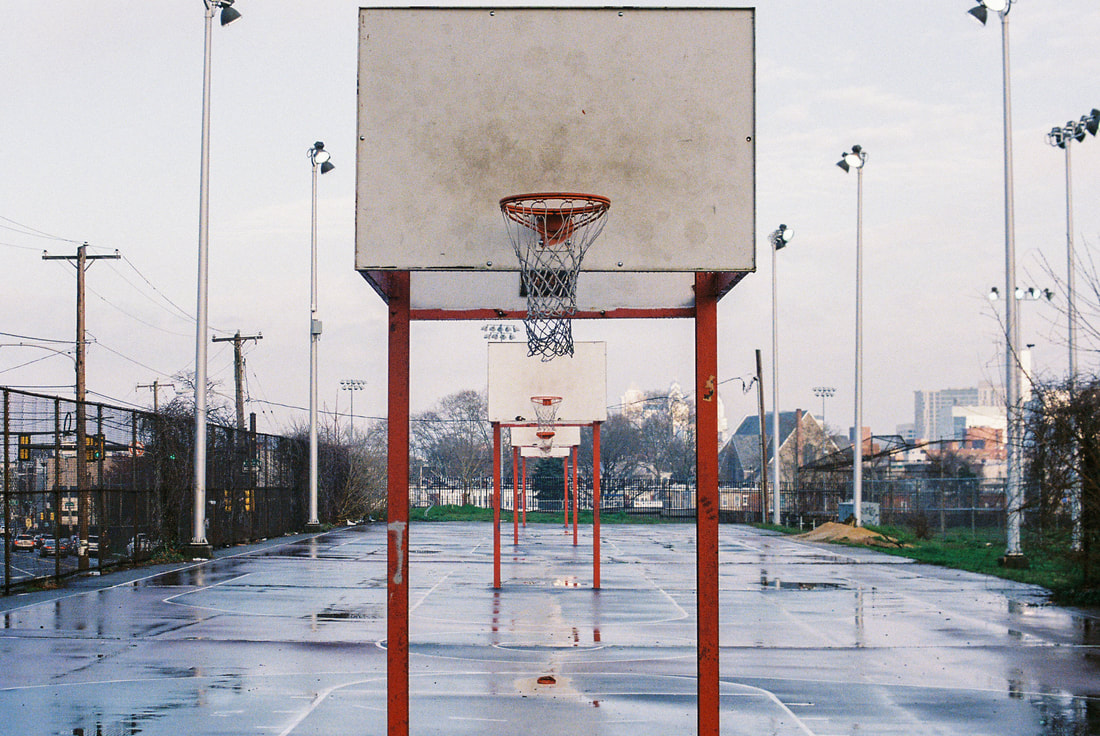
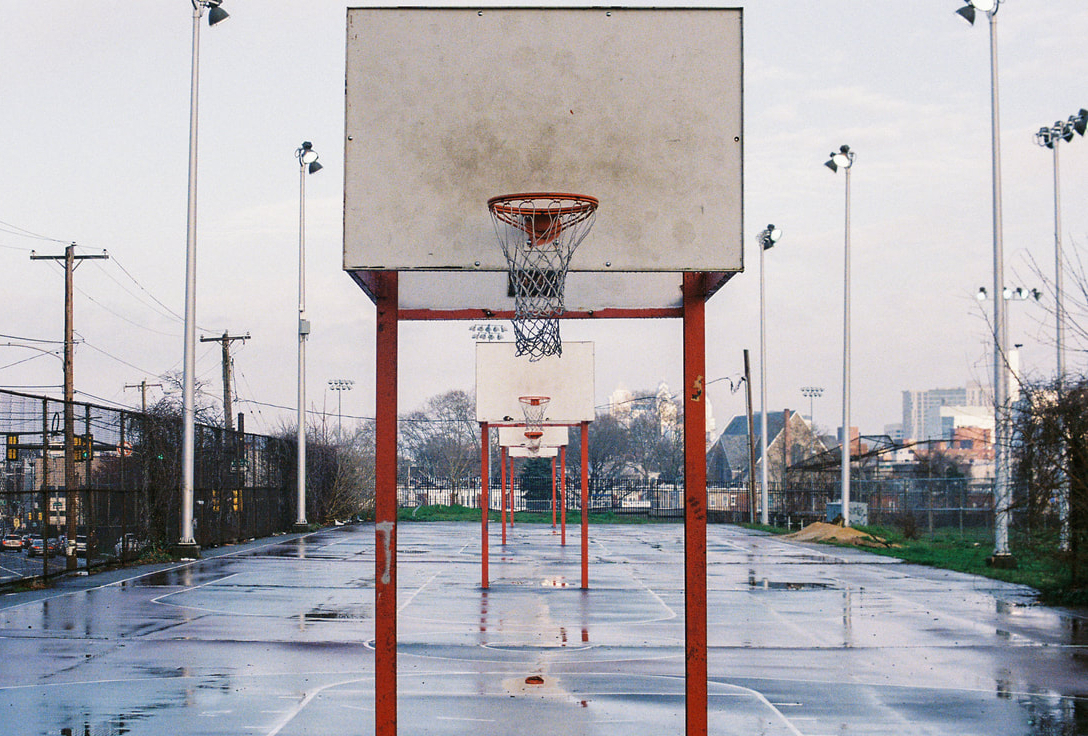
Tweaks here and there

diff --git a/src/data/pages.ts b/src/data/pages.ts
@@ -12,20 +12,47 @@ import {
   BinaryIcon,
   BirdIcon,
   NotebookPenIcon,
+  LayoutListIcon,
 } from "lucide-react";
 
 export const pages = [
-  { href: "/film", icon: FilmIcon, label: "Film." },
-  { href: "/france", icon: CroissantIcon, label: "France." },
-  { href: "/germany", icon: CableCarIcon, label: "Germany." },
-  { href: "/england", icon: CrownIcon, label: "England." },
-  { href: "/mummers", icon: PartyPopperIcon, label: "Mummers." },
-  { href: "/climate_strike", icon: SunriseIcon, label: "Climate Strike." },
-  { href: "/colombia", icon: WavesIcon, label: "Colombia." },
-  { href: "/hawaii", icon: TreePalmIcon, label: "Hawaii." },
-  { href: "/faces", icon: ScanFaceIcon, label: "Faces." },
-  { href: "/philly", icon: BellIcon, label: "Philly." },
-  { href: "/go_birds", icon: BirdIcon, label: "Go Birds." },
-  { href: "/software", icon: BinaryIcon, label: "Software." },
-  { href: "/blog", icon: NotebookPenIcon, label: "Blog." },
+  { href: "/film", icon: FilmIcon, label: "Film.", group: "photo" },
+  { href: "/france", icon: CroissantIcon, label: "France.", group: "photo" },
+  { href: "/germany", icon: CableCarIcon, label: "Germany.", group: "photo" },
+  { href: "/england", icon: CrownIcon, label: "England.", group: "photo" },
+  {
+    href: "/mummers",
+    icon: PartyPopperIcon,
+    label: "Mummers.",
+    group: "photo",
+  },
+  {
+    href: "/climate_strike",
+    icon: SunriseIcon,
+    label: "Climate Strike.",
+    group: "photo",
+  },
+  { href: "/colombia", icon: WavesIcon, label: "Colombia.", group: "photo" },
+  { href: "/hawaii", icon: TreePalmIcon, label: "Hawaii.", group: "photo" },
+  { href: "/faces", icon: ScanFaceIcon, label: "Faces.", group: "photo" },
+  { href: "/philly", icon: BellIcon, label: "Philly.", group: "photo" },
+  { href: "/go_birds", icon: BirdIcon, label: "Go Birds.", group: "photo" },
+  {
+    href: "/work",
+    icon: LayoutListIcon,
+    label: "Work.",
+    group: "professional",
+  },
+  {
+    href: "/software",
+    icon: BinaryIcon,
+    label: "Software.",
+    group: "professional",
+  },
+  {
+    href: "/blog",
+    icon: NotebookPenIcon,
+    label: "Blog.",
+    group: "professional",
+  },
 ];

diff --git a/src/components/TextBlog.tsx b/src/components/TextBlog.tsx
@@ -1,12 +1,14 @@
 import Image from "next/image";
 import Link from "next/link";
-import { BlogType } from "@/types/textBlog";
-import { HomeModernIcon, ArrowUturnLeftIcon } from "@heroicons/react/24/outline";
+import { TextBlogType } from "@/types/TextBlog";
+import {
+  HomeModernIcon,
+  ArrowUturnLeftIcon,
+} from "@heroicons/react/24/outline";
 
-export default function TextBlog({ blog }: { blog: BlogType }) {
+export default function TextBlog({ blog }: { blog: TextBlogType }) {
   return (
     <div className="relative max-w-4xl mx-auto px-6 py-12 text-black dark:text-white">
-      
       {/* Top Navigation Buttons */}
       <div className="absolute top-4 left-4 right-4 flex justify-between">
         {/* Home Button */}
@@ -49,11 +51,11 @@ export default function TextBlog({ blog }: { blog: BlogType }) {
       <div className="prose prose-neutral dark:prose-invert max-w-none">
         {blog.body.map((section, i) => (
           <div key={i} className="mb-8">
-        <h2 className="text-2xl font-semibold mb-2">{section.subtitle}</h2>
-        <div 
-          dangerouslySetInnerHTML={{ __html: section.content }}
-          className="prose-p:my-4"
-        />
+            <h2 className="text-2xl font-semibold mb-2">{section.subtitle}</h2>
+            <div
+              dangerouslySetInnerHTML={{ __html: section.content }}
+              className="prose-p:my-4"
+            />
           </div>
         ))}
       </div>

diff --git a/src/app/page.tsx b/src/app/page.tsx
@@ -10,7 +10,7 @@ export default function Home() {
       style={{
         backgroundImage: "url(/images/basketball_film.jpg)",
         backgroundSize: "cover",
-        backgroundPosition: "center",
+        backgroundPosition: "center 45%",
       }}
     >
       <div className="flex flex-col items-center gap-3 ">
@@ -27,11 +27,16 @@ export default function Home() {
         </Link>
 
         {/* Navigation */}
-        <div className="flex flex-wrap justify-center gap-4 max-w-[80%]">
-          {pages.map(({ href, icon: Icon, label }) => (
+        <div className="flex flex-wrap justify-center gap-4 max-w-full sm:max-w-[75%]">
+          {pages.map(({ href, icon: Icon, label, group }) => (
             <Link key={href} href={href} className="relative group">
-              <Icon className="w-8 h-8 group-hover:scale-110 transition" />
-              {/* Tooltip for each icon */}
+              <Icon
+                className={`w-8 h-8 transition ${
+                  group === "photo"
+                    ? "text-white group-hover:scale-110"
+                    : "text-gray-200 group-hover:scale-110"
+                }`}
+              />
               <span className="absolute left-1/2 -translate-x-1/2 -bottom-10 bg-black text-white text-sm px-2 py-1 rounded opacity-0 group-hover:opacity-100 transition-opacity z-10 pointer-events-none">
                 {label}
               </span>

diff --git a/src/data/blogs.ts b/src/data/blogs.ts
@@ -9,8 +9,7 @@ export const blogs = [
     body: [
       {
         subtitle: "Introduction",
-        content: 
-          `<p class="mb-4">
+        content: `<p class="mb-4">
             Lorem ipsum dolor sit amet, consectetur adipiscing elit. Sed do eiusmod tempor incididunt ut labore et dolore magna aliqua.
           </p>
 
@@ -21,15 +20,17 @@ export const blogs = [
             <li>Duis aute irure dolor in reprehenderit</li>
             <li>Excepteur sint occaecat cupidatat non proident</li>
           </ul>`,
-      }, 
+      },
       {
         subtitle: "Getting Started",
-        content: "Lorem ipsum dolor sit amet, consectetur adipiscing elit. Sed do eiusmod tempor incididunt ut labore et dolore magna aliqua.",
+        content:
+          "Lorem ipsum dolor sit amet, consectetur adipiscing elit. Sed do eiusmod tempor incididunt ut labore et dolore magna aliqua.",
       },
       {
         subtitle: "Conclusion",
-        content: "Lorem ipsum dolor sit amet, consectetur adipiscing elit. Sed do eiusmod tempor incididunt ut labore et dolore magna aliqua.",
+        content:
+          "Lorem ipsum dolor sit amet, consectetur adipiscing elit. Sed do eiusmod tempor incididunt ut labore et dolore magna aliqua.",
       },
-    ]
+    ],
   },
 ];

diff --git a/src/app/blog/page.tsx b/src/app/blog/page.tsx
@@ -7,7 +7,7 @@ import { pages } from "@/data/pages";
 export default function BlogPage() {
   return (
     <div className="min-h-screen p-8 bg-white text-black dark:bg-black dark:text-white">
-      <Header currentPath="/blog" pages={pages}/>
+      <Header currentPath="/blog" pages={pages} />
       <h1 className="text-4xl font-bold mb-10 text-center">Blog.</h1>
 
       <div className="grid gap-8 sm:grid-cols-1 md:grid-cols-2 lg:grid-cols-3">
@@ -32,11 +32,11 @@ export default function BlogPage() {
               <p className="text-sm text-gray-600 dark:text-gray-400 mt-1">
                 {new Date(blog.date).toLocaleDateString()}
               </p>
-                <p className="mt-2 text-gray-800 dark:text-gray-200 text-sm">
+              <p className="mt-2 text-gray-800 dark:text-gray-200 text-sm">
                 {blog.description.length > 150
                   ? `${blog.description.substring(0, 150)}...`
                   : blog.description}
-                </p>
+              </p>
             </div>
           </Link>
         ))}

diff --git a/src/components/BasketballButton.tsx b/src/components/BasketballButton.tsx
@@ -2,6 +2,7 @@
 
 import { useState } from "react";
 import Image from "next/image";
+import { PiBasketball } from "react-icons/pi";
 
 interface Shot {
   id: number;
@@ -34,15 +35,8 @@ export default function BasketballButton() {
   return (
     <>
       <div className="flex flex-col items-center justify-center mt-10">
-        <button
-          onClick={handleShoot}
-        >
-          <Image
-            src="/images/basketball.png"
-            alt="Basketball"
-            width={50}
-            height={50}
-          />
+        <button onClick={handleShoot}>
+          <PiBasketball className="text-4xl transition-transform duration-200 hover:scale-110" />
         </button>
       </div>
 

diff --git a/src/types/textBlog.ts b/src/types/textBlog.ts
@@ -1,4 +1,4 @@
-export interface BlogType {
+export interface TextBlogType {
   id: string;
   title: string;
   description: string;
